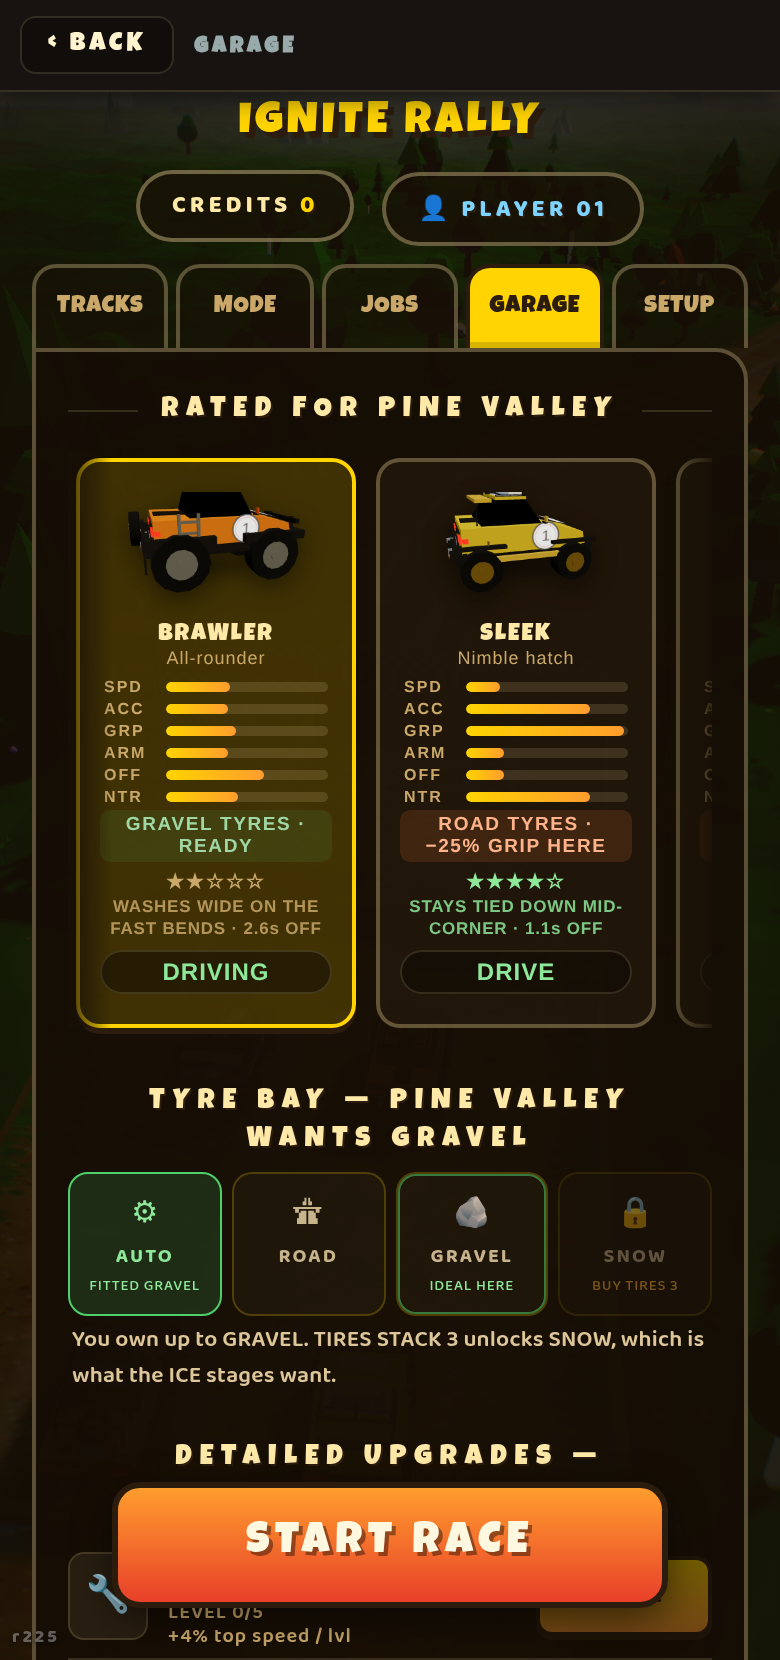
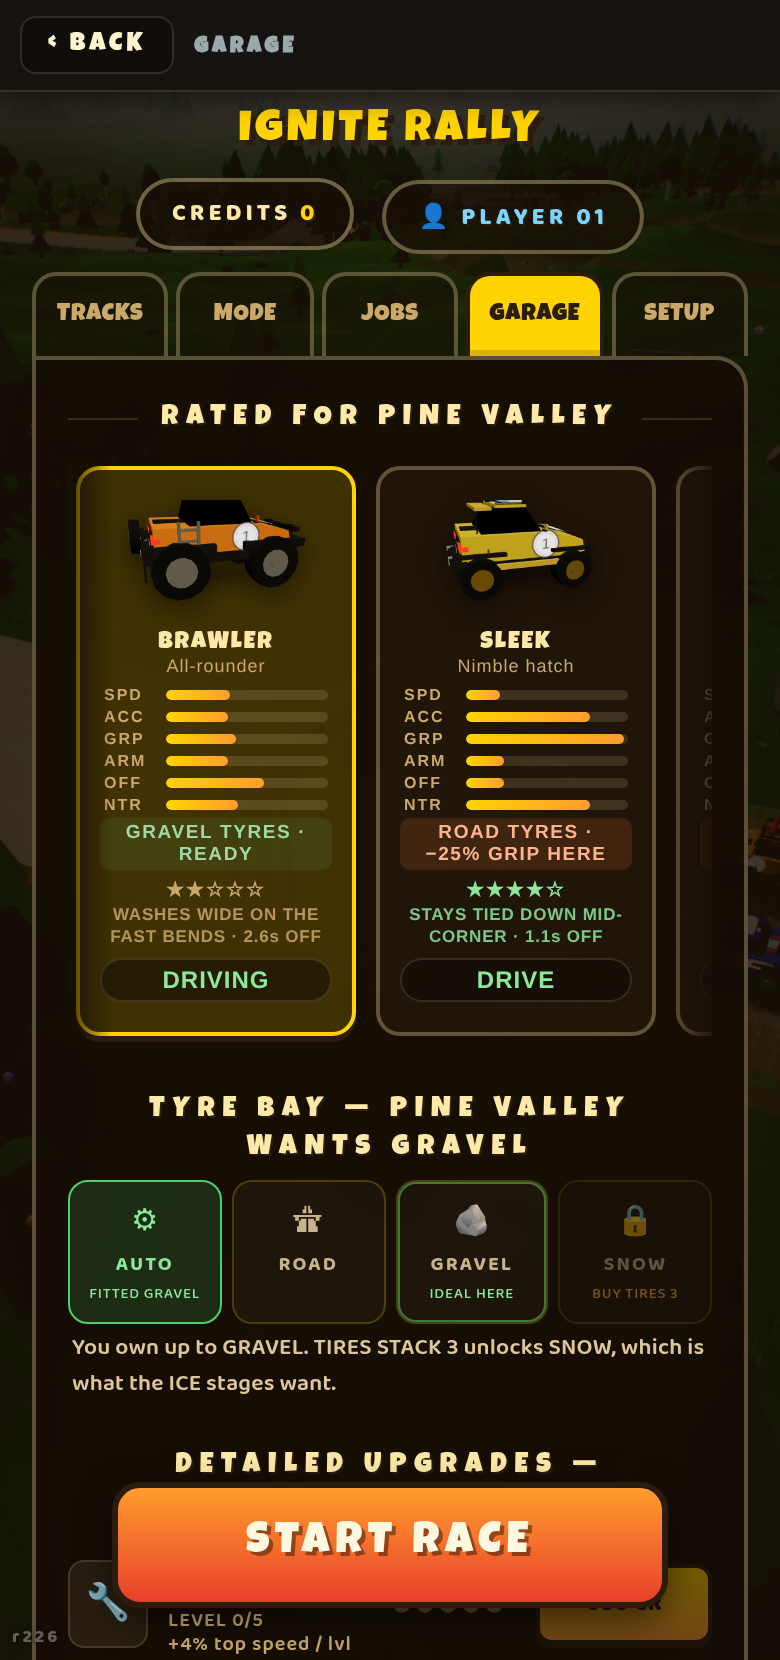
r226: the back bar goes sticky, because fixed fails to nothing
r225 measured one back button at @10,8 in every menu state and at every scroll
depth in Chromium. Reported as "No back button still", on an iPhone, inside a
chapter — the exact case that measured clean.

Everything checkable was fine: #topbar is in the shipped bundle, a direct child
of <body>, no ancestor carrying a transform or filter; the service worker bumps
its cache, skipWaitings, claims clients, and offline.js already auto-reloads on
controllerchange; the results screen has its own way out, so it was never the
missing one. tools-scratch/allstates.mjs prints state, backTarget() and the
button for every state: the only one without a button is the chapter index,
which is the top of the menu and correct.

So it is something iOS Safari does that swiftshader Chromium does not, and it
is not reproducible here. The fix is not a better guess at the cause — it is a
better failure mode:

  position:fixed  fails -> nothing on screen, anywhere
  position:sticky fails -> the bar is still in the flow at the top of the
                           chapter, which is where you look for it

The bar is now sticky, inside #title-screen as its first child. Worst case it
scrolls away, which is a far smaller failure than invisible. r223 made this
same trade the other way on a guess about sticky; this one has evidence.

top:-16px and margin:-16px -16px 10px are both .screen's own padding — the
margin spans the bar edge to edge, the negative top lands it flush with the
[…]

diff --git a/index.html b/index.html
@@ -719,10 +719,23 @@
     letter-spacing:1px;color:var(--gold-dim)}
   .cc-stars{margin-left:auto;white-space:nowrap}
   .chapter-card .ch-bar{margin-top:7px}
-  /* THE BACK BAR — see the markup note by #topbar. Fixed across the top of the
-     viewport, outside the scroller, opaque because the list runs underneath. */
-  #topbar{position:fixed;top:0;left:0;right:0;z-index:30;
+  /* THE BACK BAR — see the markup note by #topbar.
+     STICKY AND IN THE FLOW, not fixed, and the reason is the FAILURE MODE
+     rather than the happy path. Fixed measured perfectly here and was reported
+     invisible on the reporter's iPhone; a fixed element that does not paint
+     leaves NOTHING on screen anywhere. In flow, the worst sticky can do is
+     scroll away with the page — the button is still there when you arrive at
+     the top of a chapter, which is where a player looks for it. A smaller
+     failure beats a total one, and this is the same trade r223 made in the
+     other direction on a guess. */
+  #topbar{position:sticky;top:-16px;z-index:30;align-self:stretch;
     display:flex;align-items:center;gap:10px;
+    /* -16px BOTH TIMES IS .screen's OWN PADDING, and the two are coupled: the
+       margin cancels it so the bar spans edge to edge rather than reading as a
+       floating chip, and the negative `top` above lands it flush with the top
+       of the scrollport instead of 16px down with the list showing over it.
+       If .screen's padding ever changes, change both. */
+    margin:-16px -16px 10px;
     padding:8px 10px;padding-top:max(8px,env(safe-area-inset-top));
     background:#171310;border-bottom:1px solid var(--line-soft);
     box-shadow:0 3px 12px rgba(0,0,0,.55)}
@@ -730,6 +743,9 @@
   /* BACK is the biggest thing in the bar, because it is the only thing in the
      bar you can press. The rest is a label. */
   #topbar-back{font-size:13px;padding:7px 13px}
+  /* The screen centres short content with auto-margin spacers (.screen::before).
+     A header must not be centred — with the bar up the page starts at the top. */
+  .screen.with-topbar::before{display:none}
   .ch-back{font-family:'Luckiest Guy';font-size:11px;letter-spacing:2px;
     padding:5px 10px;border-radius:8px;cursor:pointer;
     color:var(--gold);background:rgba(0,0,0,.3);border:1px solid var(--line-soft)}
@@ -743,12 +759,9 @@
   /* inside a chapter the bar IS the header — this is the placeholder the row
      builder emits in its place, and it must take up no room at all */
   .chapter-head-none{display:none}
-  /* THE TOP BAR OWNS THE ROOM IT TAKES. It is fixed, so it is out of flow and
-     would otherwise print over the game title; the screen it covers gets that
-     height back as padding while the bar is up. */
-  /* the notch term has to appear in BOTH or they disagree: the bar grows by
-     the inset and the room made for it would not */
-  .screen.with-topbar{padding-top:calc(52px + env(safe-area-inset-top,0px))}
+  /* NO padding-top HERE ANY MORE. The bar was fixed and out of flow, so the
+     screen had to buy back its height; in flow it takes its own room and a
+     second allowance would just be a gap. */
   /* AND THE BRANDING STANDS DOWN once you are inside a chapter. The title and
      the tagline are the front door; two levels in they are 110 px of a phone
      spent on a logo, above the list the player came to read. */
@@ -1587,7 +1600,7 @@
 </div>
 <div id="damage-vignette"></div>
 <div id="polish-vignette"></div>
-<div id="build-tag">r225</div>
+<div id="build-tag">r226</div>
 <div id="fade"></div>
 <div id="build-veil"></div>
 
@@ -1610,31 +1623,38 @@
 
 <!-- THE BACK BUTTON. One button, one place, one word, everywhere in the menu
      there is somewhere to go.
-     It took four goes to get here, and the failures are the point:
+     It took five goes to get here, and the failures are the point. (Do NOT
+     renumber these when bumping the build — a blanket sed over this file
+     rewrote them twice, which is how r224 came to be labelled r226 below.)
        r222  a button in the header, which scrolls away
        r223  plus a fixed pill bottom-left, which sat on the world cards
-       r225  merged into a top bar, but only INSIDE A CHAPTER, and labelled
+       r224  merged into a top bar, but only INSIDE A CHAPTER, and labelled
              ALL CHAPTERS — so on the tabs the header button was still the one
              in charge, at y=92 (y=152 on MODE), and the control had three
              addresses and two names depending on where you stood. Reported,
              fairly, as "I miss the back button".
+       r225  one bar, every state, saying BACK — and FIXED to the viewport.
+             Reported as "No back button still", on an iPhone, on the one
+             screen it had been measured working.
      Now: this bar carries it in every menu state that has a level above it,
      it always says BACK, and the label beside it says where you are. The
      header button is gone rather than hidden — a second one is how this got
      out of hand in the first place.
-     FIXED, not sticky: sticky measures fine in Chromium and quietly stops
-     sticking under a number of ancestor conditions that iOS Safari is
-     stricter about. Living OUTSIDE the scrolling element is what makes fixed
-     safe here — no ancestor of this node can carry a transform or a filter,
-     which are the properties that turn `fixed` back into `absolute`.
+     STICKY AND IN THE FLOW, after r225 shipped it FIXED and outside the
+     scroller and the reporter said it was still not there on their iPhone —
+     on the one screen it was measured working. Chromium cannot see whatever
+     that is, so the fix is to change what happens WHEN IT GOES WRONG rather
+     than to keep guessing at why: a fixed bar that does not paint leaves
+     nothing on screen at all, while a sticky one that stops sticking is still
+     sitting at the top of the chapter where you arrive.
      TOP, not bottom: the bottom belongs to START RACE, and a pill down there
      sat on top of the world cards. -->
-<div id="topbar" class="hidden">
-  <button id="topbar-back" class="ch-back" aria-label="Back">‹&nbsp;BACK</button>
-  <div id="topbar-where" class="ch-here"></div>
-  <div id="topbar-stars" class="ch-here-stars"></div>
-</div>
 <div id="title-screen" class="screen">
+  <div id="topbar" class="hidden">
+    <button id="topbar-back" class="ch-back" aria-label="Back">‹&nbsp;BACK</button>
+    <div id="topbar-where" class="ch-here"></div>
+    <div id="topbar-stars" class="ch-here-stars"></div>
+  </div>
   <div class="game-title">IGNITE&nbsp;RALLY</div>
   <!-- A THREE-WORD TAGLINE COULD WRAP ANYWHERE; A SENTENCE CANNOT. The old
        "Dirt // Firepower // First Place" was short enough to sit on one line
@@ -1891,10 +1911,10 @@
   // its URL + anon key here. Leave empty to keep sync codes only.
   window.IGNITE_SYNC = { url: '', key: '' };
 </script>
-<script type="module" src="./src/main.js?v=r225"></script>
+<script type="module" src="./src/main.js?v=r226"></script>
 <!-- offline arming: registers sw.js and drives the flight badge -->
-<script src="./src/offline.js?v=r225"></script>
+<script src="./src/offline.js?v=r226"></script>
 <!-- rural traffic: self-attaching, polls window.__game (no engine hooks) -->
-<script type="module" src="./src/traffic.js?v=r225"></script>
+<script type="module" src="./src/traffic.js?v=r226"></script>
 </body>
 </html>

diff --git a/sw.js b/sw.js
@@ -16,7 +16,7 @@
  * CACHE is bumped by the release version. Bump it whenever ?v= in index.html
  * is bumped, or phones will keep serving the previous build forever.
  */
-const CACHE = 'ignite-rally-r225';
+const CACHE = 'ignite-rally-r226';
 
 // ---- CORE vs EXTRA ---------------------------------------------------------
 // CORE is everything the game needs to RUN with the radio off: the shell, the

diff --git a/HANDOVER.md b/HANDOVER.md
@@ -998,3 +998,48 @@ The four goes, kept because each was a plausible fix that made it worse:
   r224  merged into a top bar, but only inside a chapter and labelled ALL
         CHAPTERS, leaving the header button in charge on the tabs
   r225  one bar, every state, says BACK
+
+## r226 — THE BACK BUTTON, FIFTH GO: STOP GUESSING WHY, CHANGE WHAT HAPPENS WHEN IT BREAKS
+r225 put ONE back button in a `position:fixed` bar and measured it at @10,8 in
+every menu state, at every scroll depth, in Chromium. Reported as "No back
+button still", on an iPhone, INSIDE A CHAPTER — the exact case that measured
+clean. The reporter confirmed the screen when asked.
+
+Everything checkable was checked and was fine: `#topbar` is a real element in
+the shipped bundle, a direct child of `<body>`, no ancestor with a transform or
+a filter; the service worker bumps its cache, `skipWaiting`s, claims clients
+and `src/offline.js` already auto-reloads on `controllerchange`; the results
+screen has its own way out (RACE AGAIN / BACK TO GARAGE) so it was never the
+missing one. `tools-scratch/allstates.mjs` prints `state`, `backTarget()` and
+the button for every state — the only one with no button is the chapter index,
+which is the top of the menu and correct.
+
+So the cause is something iOS Safari does that swiftshader Chromium does not,
+and it is not reproducible in this box. **The fix is therefore not a better
+guess at the cause — it is a better failure mode.**
+
+    position:fixed  fails -> NOTHING on screen, anywhere.
+    position:sticky fails -> the bar is still in the flow at the top of the
+                             chapter, which is where a player looks for it.
+
+The bar is now `position:sticky` INSIDE `#title-screen`, first child. Worst
+case it scrolls away with the page — the r223 complaint — which is a far
+smaller failure than invisible. r223 made this same trade in the other
+direction, on a guess about sticky, with no evidence; this one has evidence.
+
+Two couplings to keep:
+  - `top:-16px` and `margin:-16px -16px 10px` are both `.screen`'s own 16px
+    padding. The margin makes the bar span edge to edge; the negative `top`
+    lands it flush with the scrollport instead of 16px down with the list
+    showing over it. Measured top=0 at 0/25/60/100% scroll. Change both if
+    `.screen`'s padding changes.
+  - `.screen.with-topbar::before{display:none}` — `.screen` centres short
+    content with auto-margin spacers, and a header must not be centred.
+
+### AND A REAL BUG IN HOW THIS REPO BUMPS VERSIONS
+`sed -i 's/r224/r225/g' index.html` rewrites EVERY r224 in the file, including
+the ones inside comments that record history. The back-button changelog by
+`#topbar` had already been corrupted twice this way — r224 was relabelled r225
+and then r226 — silently, because a version bump is never re-read. Bump the
+four real sites (`build-tag`, three `?v=`) deliberately, or check
+`grep -n 'r2[0-9][0-9]' index.html` afterwards and repair the prose.
